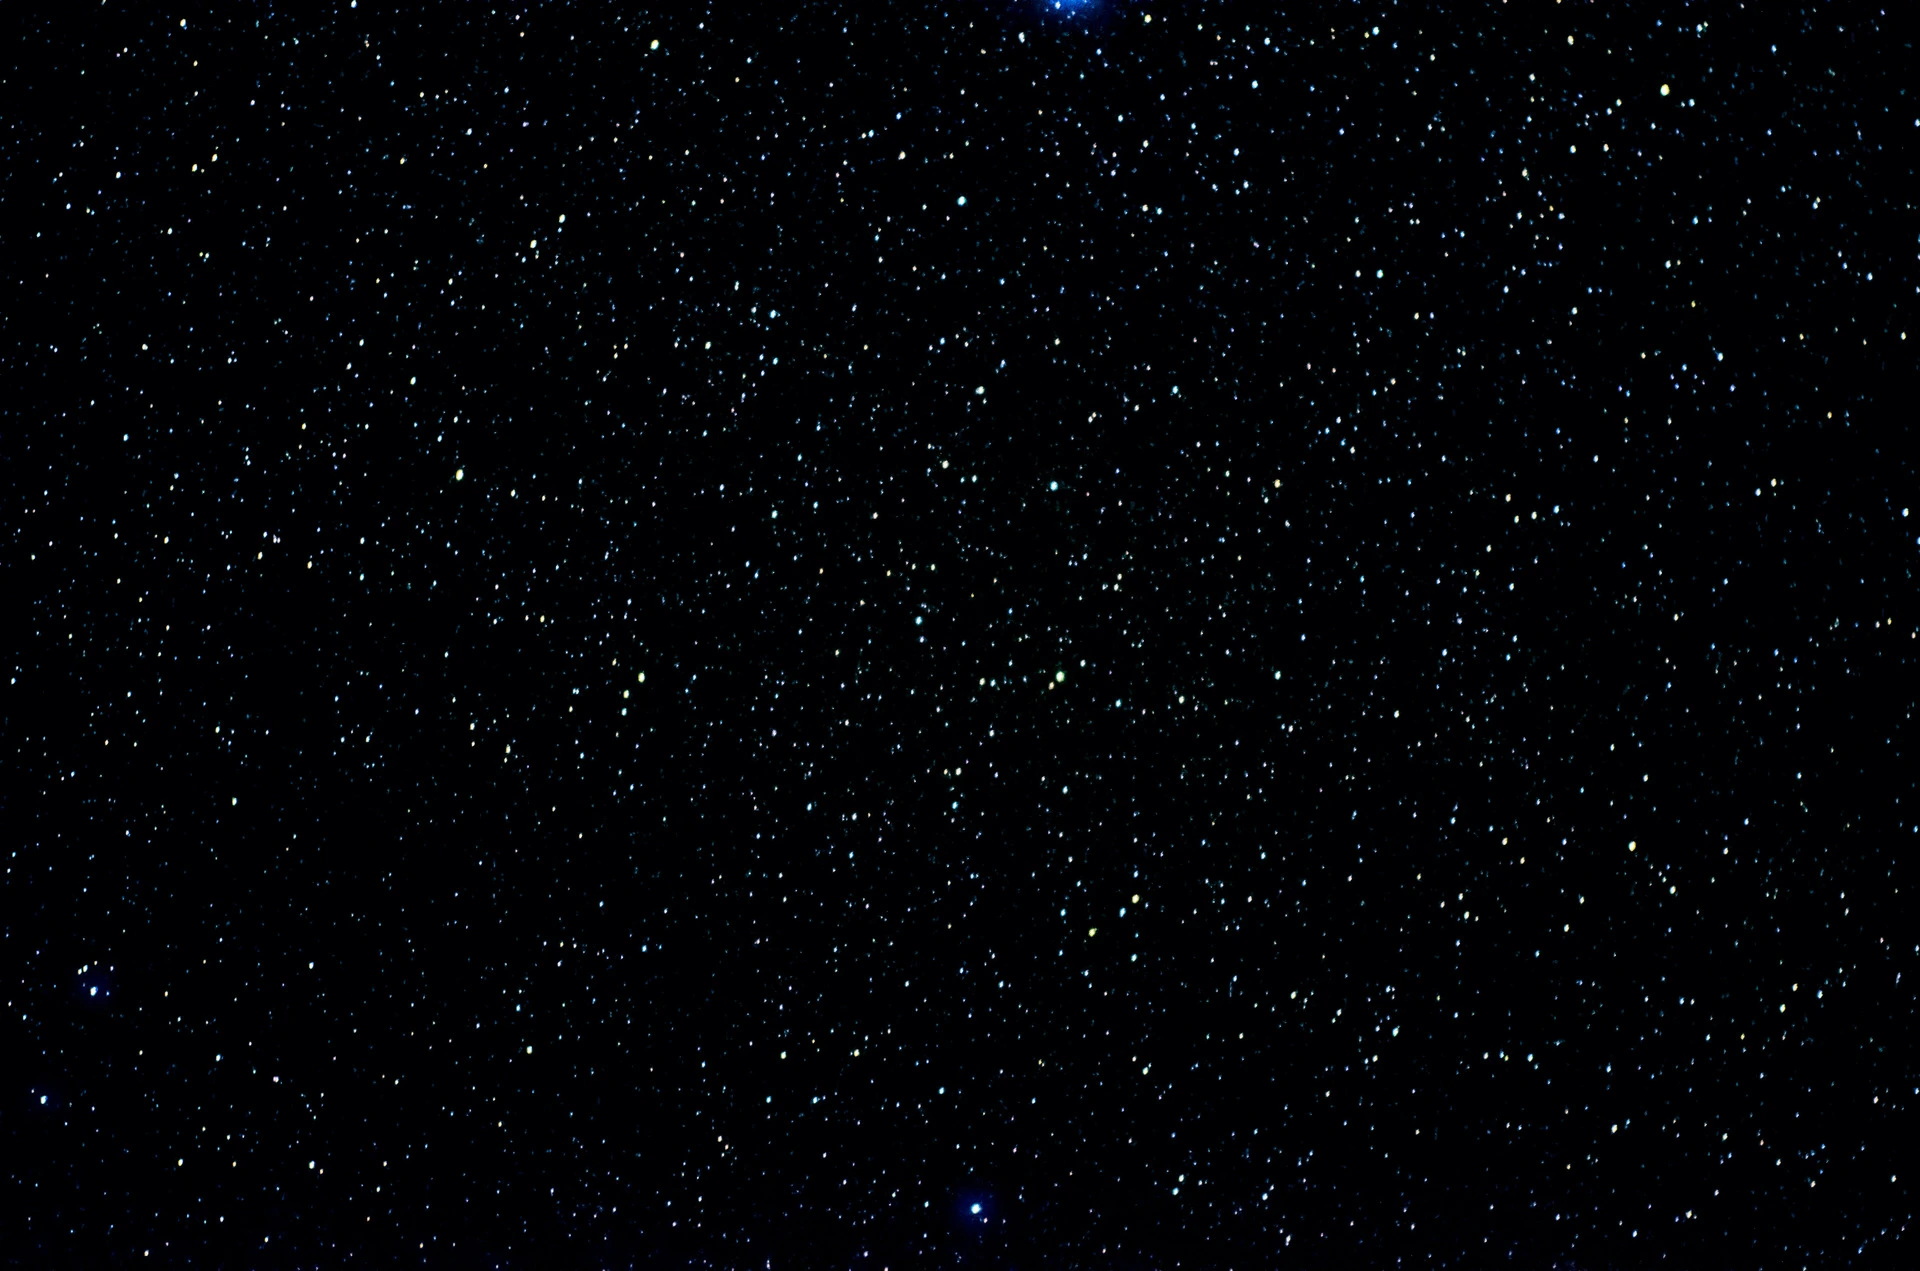
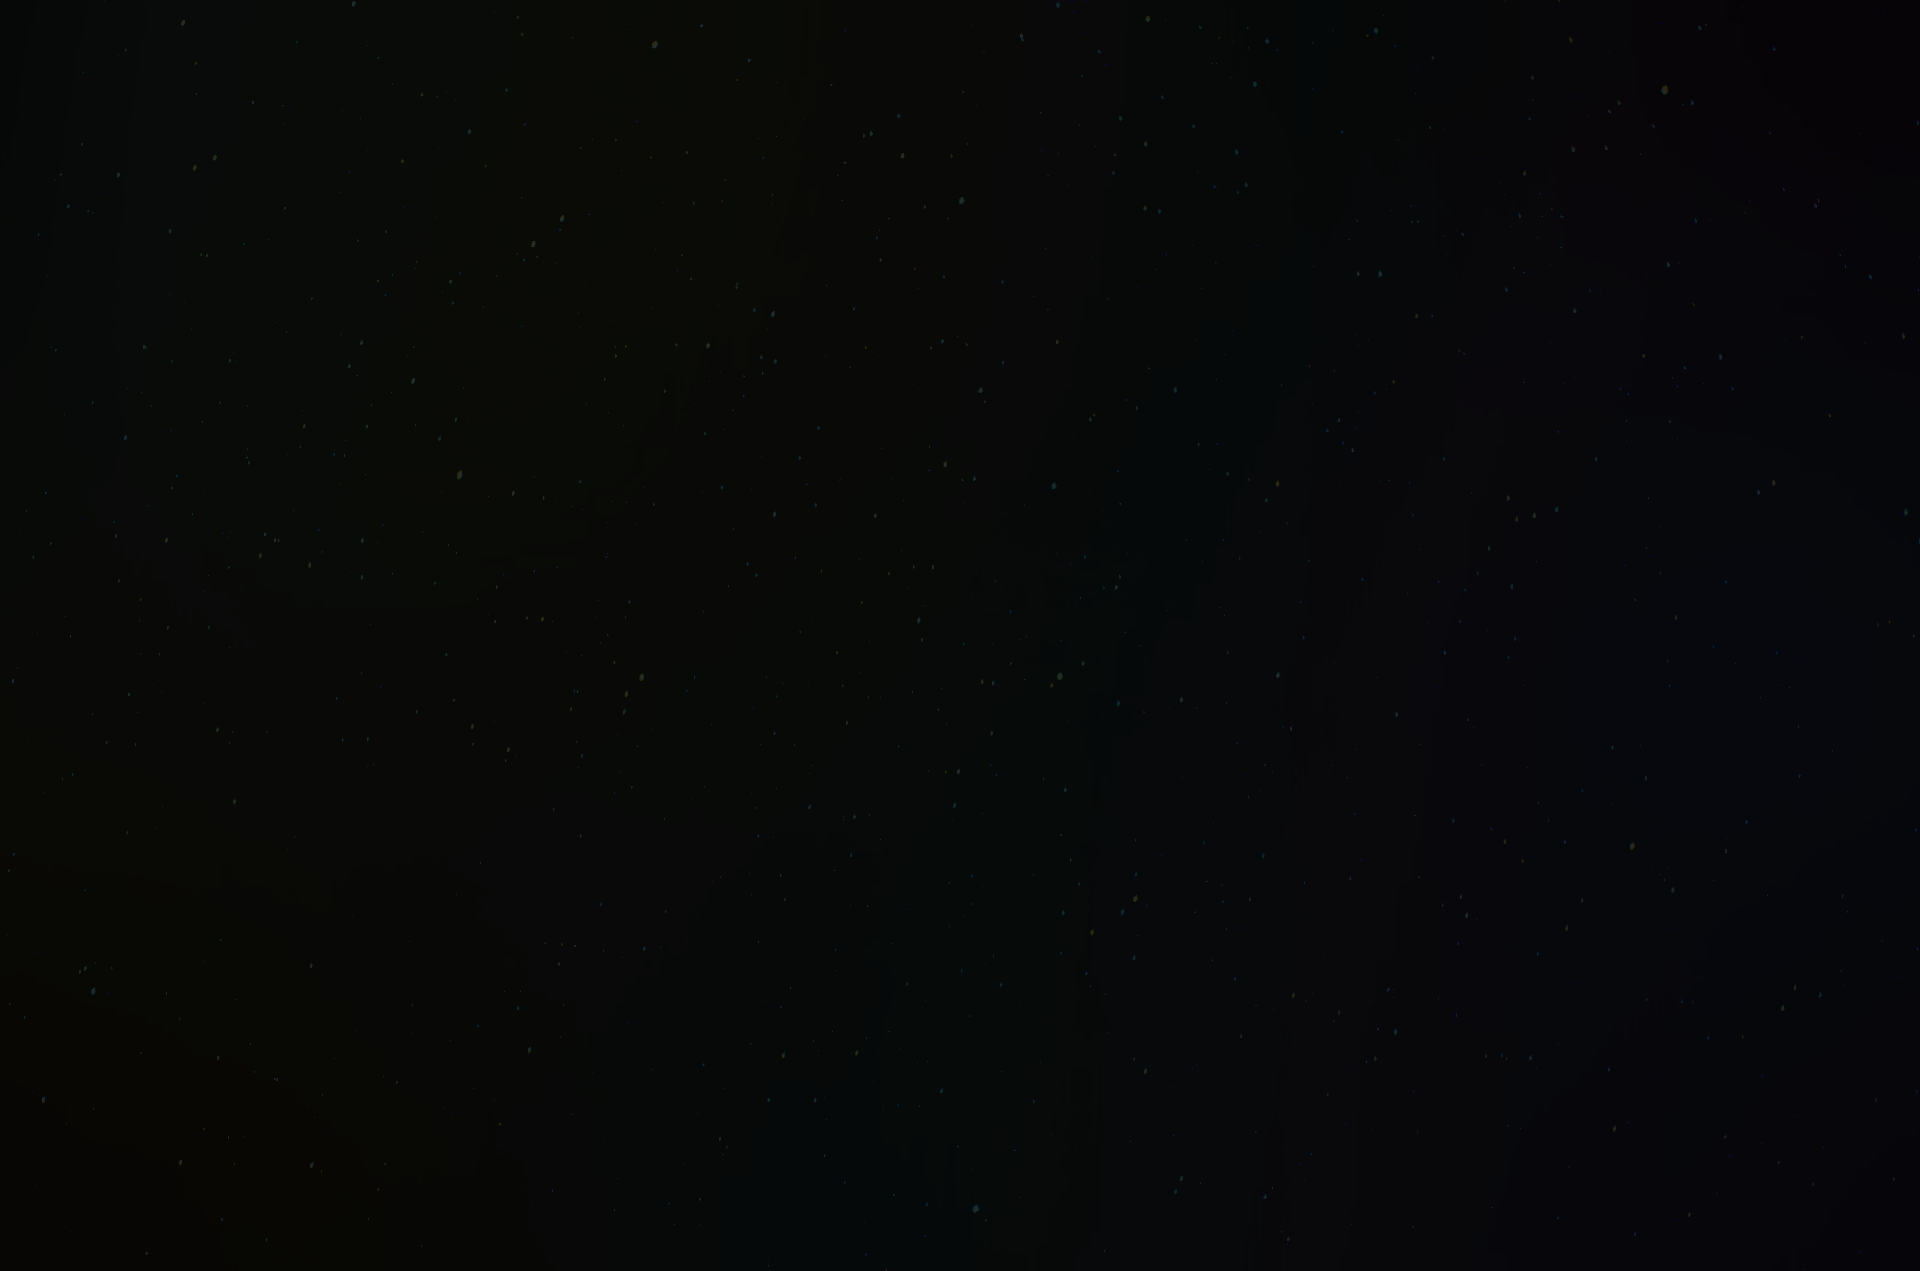
adjust background image to incorporate overlay, removing css overlay as rendered void

diff --git a/info.html b/info.html
@@ -2,70 +2,53 @@
 <html lang="en">
 
 <head>
-    <meta charset="UTF-8">
-    <meta name="viewport" content="width=device-width, initial-scale=1.0">
-    <title>About WebDevination</title>
-    <link rel="apple-touch-icon" sizes="180x180" href="./assets\favicon\apple-touch-icon.png">
-    <link rel="icon" type="image/png" sizes="32x32" href="./assets\favicon\favicon-32x32.png">
-    <link rel="icon" type="image/png" sizes="16x16" href="./assets\favicon\favicon-16x16.png">
-    <link rel="manifest" href="./assets\favicon\site.webmanifest">
-    <script src="https://kit.fontawesome.com/40e23bfd7e.js" crossorigin="anonymous"></script>
-    <link rel="preconnect" href="https://fonts.googleapis.com">
-<link rel="preconnect" href="https://fonts.gstatic.com" crossorigin>
-<link href="https://fonts.googleapis.com/css2?family=Source+Code+Pro:ital,wght@1,600&display=swap" rel="stylesheet">
-    <link href="https://fonts.googleapis.com/css2?family=Tourney:ital,wght@0,100..900;1,100..900&display=swap"
-        rel="stylesheet">
-    <link href="https://fonts.googleapis.com/icon?family=Material+Icons" rel="stylesheet">
-    <link href="https://cdn.jsdelivr.net/npm/bootstrap@5.3.3/dist/css/bootstrap.min.css" rel="stylesheet"
-        integrity="sha384-QWTKZyjpPEjISv5WaRU9OFeRpok6YctnYmDr5pNlyT2bRjXh0JMhjY6hW+ALEwIH" crossorigin="anonymous">
-    <link rel="stylesheet" href="./assets/css/styles.css">
+  <meta charset="UTF-8">
+  <meta name="viewport" content="width=device-width, initial-scale=1.0">
+  <title>About WebDevination</title>
+  <link rel="apple-touch-icon" sizes="180x180" href="./assets\favicon\apple-touch-icon.png">
+  <link rel="icon" type="image/png" sizes="32x32" href="./assets\favicon\favicon-32x32.png">
+  <link rel="icon" type="image/png" sizes="16x16" href="./assets\favicon\favicon-16x16.png">
+  <link rel="manifest" href="./assets\favicon\site.webmanifest">
+  <script src="https://kit.fontawesome.com/40e23bfd7e.js" crossorigin="anonymous"></script>
+  <link rel="preconnect" href="https://fonts.googleapis.com">
+  <link rel="preconnect" href="https://fonts.gstatic.com" crossorigin>
+  <link href="https://fonts.googleapis.com/css2?family=Source+Code+Pro:ital,wght@1,600&display=swap" rel="stylesheet">
+  <link href="https://fonts.googleapis.com/css2?family=Tourney:ital,wght@0,100..900;1,100..900&display=swap"
+    rel="stylesheet">
+  <link href="https://fonts.googleapis.com/icon?family=Material+Icons" rel="stylesheet">
+  <link href="https://cdn.jsdelivr.net/npm/bootstrap@5.3.3/dist/css/bootstrap.min.css" rel="stylesheet"
+    integrity="sha384-QWTKZyjpPEjISv5WaRU9OFeRpok6YctnYmDr5pNlyT2bRjXh0JMhjY6hW+ALEwIH" crossorigin="anonymous">
+  <link rel="stylesheet" href="./assets/css/styles.css">
 </head>
 
 <body class="info">
-  <div class="background-overlay"></div>
-  
   <header class="fixed-top">
     <!-- navigation bar at the top -->
     <nav class="navbar navbar-expand-lg">
       <div class="container-fluid">
         <!-- logo and home link -->
         <a class="navbar-brand" href="index.html" aria-label="Go to Homepage">
-          <i
-            class="fa-kit fa-pasted-svg-1 fa-2x fa-fade"
-            style="color: rgb(174, 255, 0)"
-          ></i>
+          <i class="fa-kit fa-pasted-svg-1 fa-2x fa-fade" style="color: rgb(174, 255, 0)"></i>
         </a>
-  
+
         <!-- hamburger button for mobile -->
-        <button
-          class="navbar-toggler collapsed"
-          type="button"
-          data-bs-toggle="collapse"
-          data-bs-target="#navbarNavAltMarkup"
-          aria-controls="navbarNavAltMarkup"
-          aria-expanded="false"
-          aria-label="Expand page navigation."
-        >
+        <button class="navbar-toggler collapsed" type="button" data-bs-toggle="collapse"
+          data-bs-target="#navbarNavAltMarkup" aria-controls="navbarNavAltMarkup" aria-expanded="false"
+          aria-label="Expand page navigation.">
           <!-- Custom hamburger icon (three lines) -->
           <span class="icon-bar top-bar"></span>
           <span class="icon-bar middle-bar"></span>
           <span class="icon-bar bottom-bar"></span>
         </button>
-  
+
         <!-- navigation links (collapsed by default on mobile) -->
         <div class="collapse navbar-collapse" id="navbarNavAltMarkup">
           <div class="navbar-nav ms-auto">
             <!-- links to different pages -->
             <!-- Dropdown for Readings -->
             <li class="nav-item dropdown">
-              <a
-                class="nav-link dropdown-toggle"
-                href="#"
-                id="navbarDropdown"
-                role="button"
-                data-bs-toggle="dropdown"
-                aria-expanded="false"
-              >
+              <a class="nav-link dropdown-toggle" href="#" id="navbarDropdown" role="button" data-bs-toggle="dropdown"
+                aria-expanded="false">
                 Readings
               </a>
               <ul class="dropdown-menu" aria-labelledby="navbarDropdown">
@@ -80,84 +63,82 @@
       </div>
     </nav>
   </header>
-  
-    <div class="terminal">
-        <pre id="terminalText"></pre>
-    </div>
+  <main class="container">
+    <section class="row terminal">
+      <pre id="terminalText"></pre>
+    </section>
 
     <!-- Buttons (Initially Hidden) -->
     <div id="buttons-container" class="buttons-container">
-        <div class="row inforow">
-            <div class="col-12 col-sm-6">
-                <!-- Image container for card backs (aligned horizontally in a row) -->
-                <div class="image-container">
-                    <a href="onecard.html">
-                        <img src="assets/images/cardbacks.webp" />
-                    </a>
-                </div>
-                <a href="onecard.html">
-                    <button id="pickOneCard" class="card-button">ONE CARD</button>
-                </a>
-                <div id="pickOneExplanation" class="explanation">
-                    Provides clarity, focus, and quick answers, especially for yes/no questions, an effective tool for decision-making.
-                </div>
-            </div>
-    
-            <div class="col-12 col-sm-6">
-                <!-- Image container for card backs (aligned horizontally in a row) -->
-                <div class="image-container">
-                    <a href="onecard.html">
-                        <img src="assets/images/cardbacks.webp" />
-                    </a>
-                    <a href="onecard.html">
-                        <img src="assets/images/cardbacks.webp" />
-                    </a>
-                    <a href="onecard.html">
-                        <img src="assets/images/cardbacks.webp" />
-                    </a>
-                </div>
-                <a href="threecard.html">
-                    <button id="pickThreeCards" class="card-button">THREE CARDS</button>
-                </a>
-                <div id="pickThreeExplanation" class="explanation">
-                    Draw three cards to represent the past, present, and future in order to view a clear timeline of the situation.
-                </div>
-            </div>
+      <section class="row inforow">
+        <div class="col-12 col-sm-6">
+          <!-- Image container for card backs (aligned horizontally in a row) -->
+          <div class="image-container">
+            <a href="onecard.html">
+              <img src="assets/images/cardbacks.webp" />
+            </a>
+          </div>
+          <a href="onecard.html">
+            <button id="pickOneCard" class="card-button">ONE CARD</button>
+          </a>
+          <div id="pickOneExplanation" class="explanation">
+            Provides clarity, focus, and quick answers, especially for yes/no questions, an effective tool for
+            decision-making.
+          </div>
         </div>
-    
 
-        <div class="row infolgscreen">
-          <h2 class="title">🔮 Ask the Oracle</h2>
-          <form id="oracle-form">
-            <textarea 
-              id="questionInput" 
-              placeholder="Type your question..." 
-              required 
-              maxlength="500" 
-              rows="5"
-            ></textarea>
-            <div id="char-count">0 / 500</div>
-            <button class="oracleButton" type="submit">REVEAL YOUR FATE</button>
-          </form>
-          <div id="oracle-response" class="oracle-response"></div>
+        <div class="col-12 col-sm-6">
+          <!-- Image container for card backs (aligned horizontally in a row) -->
+          <div class="image-container">
+            <a href="onecard.html">
+              <img src="assets/images/cardbacks.webp" />
+            </a>
+            <a href="onecard.html">
+              <img src="assets/images/cardbacks.webp" />
+            </a>
+            <a href="onecard.html">
+              <img src="assets/images/cardbacks.webp" />
+            </a>
+          </div>
+          <a href="threecard.html">
+            <button id="pickThreeCards" class="card-button">THREE CARDS</button>
+          </a>
+          <div id="pickThreeExplanation" class="explanation">
+            Draw three cards to represent the past, present, and future in order to view a clear timeline of the
+            situation.
+          </div>
         </div>
-        
-  </div>
+      </section>
+
+
+      <section class="row infolgscreen">
+        <h2 class="title">🔮 Ask the Oracle</h2>
+        <form id="oracle-form">
+          <textarea id="questionInput" placeholder="Type your question..." required maxlength="500" rows="5"></textarea>
+          <div id="char-count">0 / 500</div>
+          <button class="oracleButton" type="submit">REVEAL YOUR FATE</button>
+        </form>
+        <div id="oracle-response" class="oracle-response"></div>
+      </section>
+
+    </div>
 
     <button id="skipButton" class="skip-button">SKIP</button>
-
-    <footer>
-      <p>&copy; <span id="current-year"></span> WebDevination. All rights reserved.</p>
-      <p>Made with <i class="fa-solid fa-heart"></i> by Kim Piffy</p>
+  </main>
+  <footer>
+    <p>&copy; <span id="current-year"></span> WebDevination. All rights reserved.</p>
+    <p>Made with <i class="fa-solid fa-heart"></i> by Kim Piffy</p>
   </footer>
 
-    <script src="./assets/js/info.js"></script>
-    <script src="./assets/js/oracle.js"></script>
-    <script src="https://cdn.jsdelivr.net/npm/bootstrap@5.3.3/dist/js/bootstrap.bundle.min.js" integrity="sha384-YvpcrYf0tY3lHB60NNkmXc5s9fDVZLESaAA55NDzOxhy9GkcIdslK1eN7N6jIeHz" crossorigin="anonymous"></script>
-    <script>
-      // JavaScript to dynamically set the current year in the footer
-      document.getElementById('current-year').textContent = new Date().getFullYear();
+  <script src="./assets/js/info.js"></script>
+  <script src="./assets/js/oracle.js"></script>
+  <script src="https://cdn.jsdelivr.net/npm/bootstrap@5.3.3/dist/js/bootstrap.bundle.min.js"
+    integrity="sha384-YvpcrYf0tY3lHB60NNkmXc5s9fDVZLESaAA55NDzOxhy9GkcIdslK1eN7N6jIeHz"
+    crossorigin="anonymous"></script>
+  <script>
+    // JavaScript to dynamically set the current year in the footer
+    document.getElementById('current-year').textContent = new Date().getFullYear();
   </script>
-  </body>
+</body>
 
 </html>

diff --git a/assets/css/styles.css b/assets/css/styles.css
@@ -36,6 +36,7 @@
 
 body {
   min-height: 100vh;
+  margin-top: 100px;
   padding: 0;
   background-color: black;
   background-image: url('../images/tarotbg.webp');
@@ -45,24 +46,8 @@ body {
   text-shadow: 0 0 5px #2aff1a, 0 0 10px #2aff1a, 0 0 20px #2aff1a;
 }
 
-/* The mystical overlay */
-.background-overlay {
-  position: fixed;
-  top: 0;
-  left: 0;
-  min-width: 100vw;
-  min-height: 100vh;
-  background-color: rgba(0, 0, 0, 0.904); 
-  z-index: 1;
-  pointer-events: none; /* Allows clicks to pass through */
-}
-
-main, header, footer, div, div.row, .column, .container, section, article, pre, button, a, p, h1, h2, h3, h4, h5, h6, textarea, input, select, label, span {
-  z-index: 2; /* Ensures content is above the overlay */
-} 
-
 /* general body styles */
-body.p {
+p {
   font-family: "Source Code Pro", monospace;
 }
 
@@ -361,15 +346,13 @@ a.dropdown-item:hover {
 /*info page styles*/
 /* set the page body to mimic terminal */
 body.info {
-  margin: 100px 60px 500px 60px;
-  max-width: 100%;
+  min-width: 100vw;
+  max-height: fit-content;
 }
 
 .terminal {
-  display: flex;
-  align-items: flex-start;
-  justify-content: flex-start;
-  overflow: hidden;
+  max-width: 90vw;
+  text-align: center;
 }
 
 /* skip button allows user to load page contents without delay */
@@ -426,6 +409,7 @@ body.info {
 /* Keep the rest of the content in the column layout */
 #buttons-container .col-12.col-sm-6 {
   display: flex;
+  max-width: 90vw;
   flex-direction: column;
   align-items: center;  /* Center the content horizontally */
   justify-content: center; /* Center the content vertically */
@@ -449,6 +433,7 @@ body.info {
 }
 
 .infolgscreen {
+  max-width: 90vw;
   display: flex;
   flex-direction: column;
   justify-content: center;
@@ -564,6 +549,7 @@ box-shadow: #2aff1a;
 }
 
 .inforow {
+  max-width: 90vw;
   display: flex;
   justify-content: center;
   align-items: flex-start;
